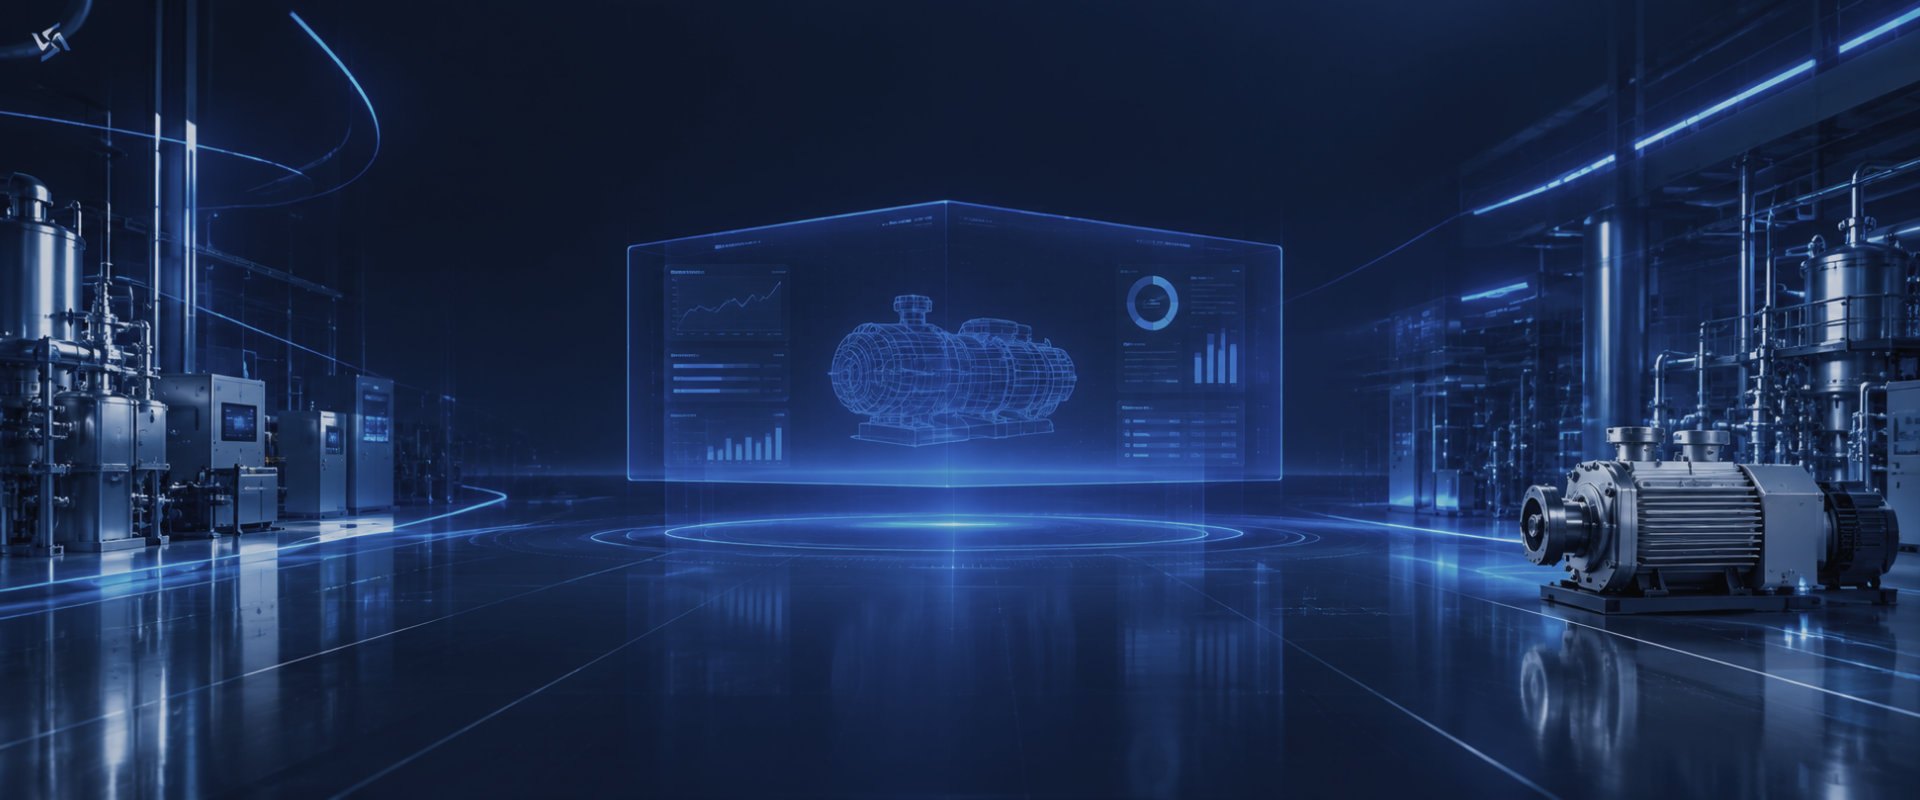
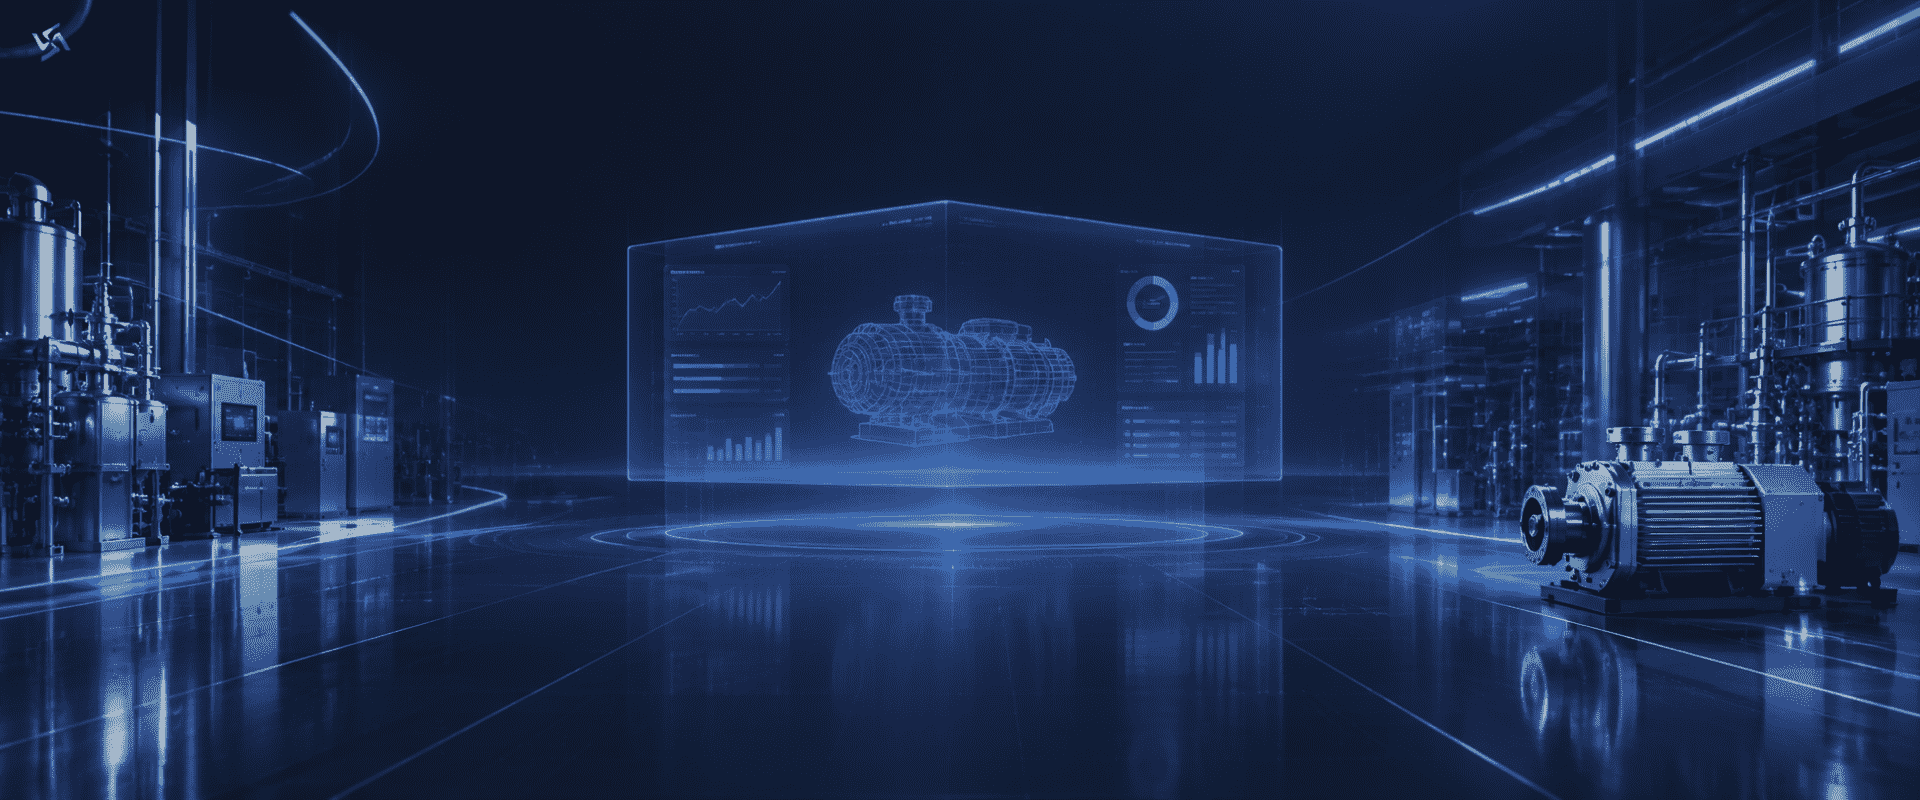
Finalize Smart Eye migration and production website fixes

diff --git a/src/app/[lang]/(website)/home/home-page.tsx b/src/app/[lang]/(website)/home/home-page.tsx
@@ -7,6 +7,13 @@ import styles from "./home.module.css";
 
 type Props = { params: Promise<{ lang: string }> };
 
+const softwarePaths = {
+  vacuum: "/products/vacuum-ai",
+  agent: "/products/industrial-agent",
+  brain: "/products/enterprise-brain",
+  smartEye: "/smart-eye",
+} as const;
+
 const chainStepIcons = [
   "/image/home-chain-needs.png", // 527:943
   "/image/home-chain-ai-assistant.png", // 527:946
@@ -43,7 +50,7 @@ const copy = {
     offeringIntro: "TARGON 面向真空与半导体产业，提供 AI 软件产品与工业硬件产品，将人工智能能力与真实设备及产业场景连接起来。",
     softwareTitle: "AI 软件产品",
     software: [
-      { name: "Vacuum AI", description: "真空产业智能化平台，模型计算、元件交易、二手流通、维修保养、认证服务。", type: "产业平台", action: "查看案例", image: "vacuum" },
+      { name: "Vacuum AI", description: "真空产业智能化平台，模型计算、元件交易、二手流通、维修保养、认证服务。", type: "产业平台", action: "了解产品", image: "vacuum" },
       { name: "Local Industrial Agent", description: "让每一台设备拥有自己的 AI Agent——设备理解、故障诊断、预测维护、工艺优化、多设备协作。", type: "工业AI", action: "了解产品", image: "agent" },
       { name: "Enterprise Brain", description: "让企业拥有真正能执行任务的 AI 中枢——文件理解、数据核对、知识管理、任务执行、流程协作。", type: "企业AI", action: "了解产品", image: "brain" },
       { name: "灵眸智售", description: "专为B2B销售打造的 AI 销售赋能平台\n市场情报 → 目标客户 → 采购决策链 → 项目跟进 → 报价 → 成交。", type: "销售AI", action: "进入灵眸智售", image: "smartEye" },
@@ -62,7 +69,7 @@ const copy = {
     scenes: [
       { name: "Vacuum AI", headline: "AI，正在真实场景中发生", description: "Vacuum AI——从真空计算到产业服务的平台实践", image: "/image/home-scene-vacuum-ai.png", imageAlt: "Vacuum AI 平台界面" },
       { name: "Local Industrial Agent", headline: "AI，正在工业现场发生", description: "Local Industrial Agent——面向真空与半导体设备的本地化工业 AI Agent", image: "/image/home-scene-industrial-agent.png", imageAlt: "Local Industrial Agent 平台界面" },
-      { name: "Enterprise Brain", headline: "AI，正在企业业务中发生", description: "Enterprise Brain——从企业知识到业务执行的 AI 智能中枢", image: "/image/home-scene-enterprise-brain.png", imageAlt: "Enterprise Brain 知识库界面" },
+      { name: "Enterprise Brain", headline: "AI，正在企业业务中发生", description: "Enterprise Brain——从企业知识到业务执行的 AI 智能中枢", image: "/image/home-scene-enterprise-brain.png", imageAlt: "Enterprise Brain 知识库界面", imagePosition: "center top" },
       { name: "灵眸智售", headline: "AI，正在销售现场发生", description: "灵眸智售——从市场洞察到客户成交的 AI 销售智能平台", image: "/image/home-scene-smart-eye.png", imageAlt: "灵眸智售报价单界面" },
     ],
     reasonsTitle: "为什么选择Targon？",
@@ -104,7 +111,7 @@ const copy = {
     offeringIntro: "TARGON provides AI software and industrial hardware for the vacuum and semiconductor industries, connecting AI capabilities with real equipment and industrial applications.",
     softwareTitle: "AI Software Products",
     software: [
-      { name: "Vacuum AI", description: "An intelligent platform for the vacuum industry: model calculations, component trading, secondhand equipment, maintenance, and certification services.", type: "Industry Platform", action: "View Cases", image: "vacuum" },
+      { name: "Vacuum AI", description: "An intelligent platform for the vacuum industry: model calculations, component trading, secondhand equipment, maintenance, and certification services.", type: "Industry Platform", action: "Explore Product", image: "vacuum" },
       { name: "Local Industrial Agent", description: "An AI Agent for equipment understanding, fault diagnosis, predictive maintenance, process optimization, and coordination across devices.", type: "Industrial AI", action: "Explore Product", image: "agent" },
       { name: "Enterprise Brain", description: "An AI hub for enterprise tasks: document understanding, data checking, knowledge management, task execution, and workflow collaboration.", type: "Enterprise AI", action: "Explore Product", image: "brain" },
       { name: "Smart Eye", description: "An AI sales platform for B2B teams, from market intelligence to customer deals.", type: "Sales AI", action: "Explore Smart Eye", image: "smartEye" },
@@ -123,7 +130,7 @@ const copy = {
     scenes: [
       { name: "Vacuum AI", headline: "AI at Work in Real Applications", description: "Vacuum AI brings real calculations and industry services together on one platform.", image: "/image/home-scene-vacuum-ai.png", imageAlt: "Vacuum AI platform interface" },
       { name: "Local Industrial Agent", headline: "AI at Work on the Factory Floor", description: "A local Industrial AI Agent for vacuum and semiconductor equipment.", image: "/image/home-scene-industrial-agent.png", imageAlt: "Local Industrial Agent platform interface" },
-      { name: "Enterprise Brain", headline: "AI at Work in Enterprise Operations", description: "An AI hub from enterprise knowledge to business execution.", image: "/image/home-scene-enterprise-brain.png", imageAlt: "Enterprise Brain knowledge base interface" },
+      { name: "Enterprise Brain", headline: "AI at Work in Enterprise Operations", description: "An AI hub from enterprise knowledge to business execution.", image: "/image/home-scene-enterprise-brain.png", imageAlt: "Enterprise Brain knowledge base interface", imagePosition: "center top" },
       { name: "Smart Eye", headline: "AI at Work in Sales", description: "An AI sales platform from market insight to customer deals.", image: "/image/home-scene-smart-eye.png", imageAlt: "Smart Eye quotation interface" },
     ],
     reasonsTitle: "Why Targon?",
@@ -154,7 +161,17 @@ const copy = {
 export async function generateMetadata({ params }: Props): Promise<Metadata> {
   const { lang } = await params;
   if (!isLocale(lang)) notFound();
-  return { title: copy[lang].title, description: copy[lang].description, robots: { index: false, follow: false } };
+  return {
+    title: copy[lang].title,
+    description: copy[lang].description,
+    alternates: {
+      canonical: `/${lang}`,
+      languages: {
+        "zh-CN": "/zh",
+        en: "/en",
+      },
+    },
+  };
 }
 
 export default async function HomePage({ params }: Props) {
@@ -183,7 +200,7 @@ export default async function HomePage({ params }: Props) {
         <div className={styles.softwareGrid}>
           {content.software.map((product) => <article className={styles.softwareCard} data-product={product.image} key={product.name}>
             <div className={`site-bg-box ${styles.softwareImage}`} role="img" aria-label={product.name} />
-            <div className={styles.softwareCopy}><h4>{product.name}</h4><p>{product.description}</p><div className={styles.cardActions}><span className={styles.pill}>{product.type}</span>{product.image === "smartEye" ? <Link href={`/${lang}/smart-eye`}>{product.action}<span aria-hidden="true">→</span></Link> : <button type="button">{product.action}<span aria-hidden="true">→</span></button>}</div></div>
+            <div className={styles.softwareCopy}><h4>{product.name}</h4><p>{product.description}</p><div className={styles.cardActions}><span className={styles.pill}>{product.type}</span><Link href={`/${lang}${softwarePaths[product.image]}`} aria-label={`${product.action} · ${product.name}`}>{product.action}<span aria-hidden="true">→</span></Link></div></div>
           </article>)}
         </div>
       </section>
@@ -191,14 +208,14 @@ export default async function HomePage({ params }: Props) {
       <section className={`site-container ${styles.hardware}`} aria-labelledby="hardware-heading">
         <h2 id="hardware-heading" className={styles.sectionTitle} data-aos="fade">{content.hardwareTitle}</h2>
         <div className={styles.hardwarePanel}>
-          <div className={styles.hardwareCopy}><h3 data-aos="fade">{content.hardwareHeadline}</h3><p data-aos="fade">{content.hardwareIntro}</p><button className={styles.textButton} type="button">{content.hardwareAction}<span aria-hidden="true">→</span></button><div className={styles.tags}>{content.hardwareTags.map((tag) => <span key={tag}>{tag}</span>)}</div></div>
-          <div className={`site-bg-box ${styles.hardwareImage} ${styles.collectorImage}`} role="img" aria-label={content.collector}><span>{content.collector}</span></div>
-          <div className={`site-bg-box ${styles.hardwareImage} ${styles.outgassingImage}`} role="img" aria-label={content.outgassing}><span>{content.outgassing}</span></div>
+          <div className={styles.hardwareCopy}><h3 data-aos="fade">{content.hardwareHeadline}</h3><p data-aos="fade">{content.hardwareIntro}</p><Link className={styles.textButton} href={`/${lang}/products#hardware-heading`}>{content.hardwareAction}<span aria-hidden="true">→</span></Link><div className={styles.tags}>{content.hardwareTags.map((tag) => <span key={tag}>{tag}</span>)}</div></div>
+          <Link href={`/${lang}/products/edge-collector`} className={`site-bg-box ${styles.hardwareImage} ${styles.collectorImage}`} aria-label={content.collector}><span>{content.collector}</span></Link>
+          <Link href={`/${lang}/products/outgassing-platform`} className={`site-bg-box ${styles.hardwareImage} ${styles.outgassingImage}`} aria-label={content.outgassing}><span>{content.outgassing}</span></Link>
         </div>
       </section>
 
       <section className={`site-container ${styles.chain}`} aria-labelledby="chain-heading">
-        <div className={styles.chainCopy}><h2 id="chain-heading" data-aos="fade">{content.chainTitle}</h2><p data-aos="fade">{content.chainIntro}</p><button className={styles.textButton} type="button">{content.chainAction}<img src="/image/home-chain-link-arrow.png" alt="" width="40" height="40" /></button></div>
+        <div className={styles.chainCopy}><h2 id="chain-heading" data-aos="fade">{content.chainTitle}</h2><p data-aos="fade">{content.chainIntro}</p><Link className={styles.textButton} href={`/${lang}/products/vacuum-ai`}>{content.chainAction}<img src="/image/home-chain-link-arrow.png" alt="" width="40" height="40" /></Link></div>
         <ol className={styles.chainSteps}>
           {content.chainSteps.map((step, index) => (
             <li key={step}>

diff --git a/src/components/site-header/site-header.tsx b/src/components/site-header/site-header.tsx
@@ -3,18 +3,14 @@ import { LocaleSwitch } from "@/components/locale-switch";
 import type { Locale } from "@/lib/locales";
 import styles from "./site-header.module.css";
 
-export function SiteHeader({ lang, showCases = false, activeHref, logoSrc = "/image/logo.svg", versionLabel }: {
+export function SiteHeader({ lang, activeHref }: {
   lang: Locale;
-  showCases?: boolean;
   activeHref?: string;
-  logoSrc?: string;
-  versionLabel?: string;
 }) {
   const isZh = lang === "zh";
   const links = [
     { href: `/${lang}`, label: isZh ? "首页" : "Home" },
     { href: `/${lang}/products`, label: isZh ? "产品" : "Products" },
-    ...(showCases ? [{ href: `/${lang}/cases`, label: isZh ? "案例" : "Cases" }] : []),
     { href: `/${lang}/smart-eye`, label: isZh ? "灵眸智售" : "Smart Eye" },
     { href: `/${lang}/contact`, label: isZh ? "联系我们" : "Contact" },
   ];
@@ -23,7 +19,7 @@ export function SiteHeader({ lang, showCases = false, activeHref, logoSrc = "/im
     <header className={styles.header}>
       <div className={`site-container ${styles.inner}`}>
         <Link className={styles.brand} href={`/${lang}`} aria-label={isZh ? "探氩科技首页" : "Targon home"}>
-          <img className={styles.logo} src={logoSrc} alt="" width="40" height="40" />
+          <img className={styles.logo} src="/image/logo.svg" alt="" width="40" height="40" />
           <span>TARGON</span>
         </Link>
         <nav className={styles.nav} aria-label={isZh ? "主导航" : "Main navigation"}>
@@ -34,11 +30,7 @@ export function SiteHeader({ lang, showCases = false, activeHref, logoSrc = "/im
           ))}
         </nav>
         <div className={styles.actions}>
-          {versionLabel && <span className={styles.locale}>{versionLabel}</span>}
           <LocaleSwitch lang={lang} className={styles.locale} />
-          <Link className={`site-button site-button--primary ${styles.demo}`} href={`/${lang}/contact`}>
-            {isZh ? "预约演示" : "Book a Demo"}
-          </Link>
         </div>
       </div>
     </header>

diff --git a/src/components/site-header/site-header.module.css b/src/components/site-header/site-header.module.css
@@ -1,15 +1,14 @@
-.header { background: var(--site-color-navy); color: var(--site-color-white); }
+.header { background: var(--site-color-navy); color: var(--site-color-white); font-family: var(--site-font-text); line-height: 1.5; -webkit-font-smoothing: antialiased; -moz-osx-font-smoothing: grayscale; }
 .inner { display: grid; grid-template-columns: 1fr auto 1fr; align-items: center; gap: 32px; min-height: 116px; }
 .brand { display: inline-flex; align-items: center; gap: 8px; color: var(--site-color-white); font-family: var(--site-font-latin); font-size: 24px; letter-spacing: -.16px; white-space: nowrap; }
 .logo { display: block; width: 40px; height: 40px; flex: none; }
 .nav { display: flex; align-items: center; gap: clamp(24px, 4.5vw, 88px); white-space: nowrap; }
 .nav a { display: inline-flex; align-items: center; gap: 3px; color: var(--site-color-nav); font-size: 18px; line-height: 32px; }
 .nav a:hover, .locale:hover { color: var(--site-color-white); }
-.nav a[aria-current="page"] { color: var(--site-color-white); font-weight: 500; }
+.nav a[aria-current="page"] { color: var(--site-color-white); }
 .nav a span { color: var(--site-color-muted); font-weight: 700; }
 .actions { display: flex; align-items: center; justify-content: flex-end; gap: 24px; }
 .locale { color: var(--site-color-nav); font-family: var(--site-font-latin); font-size: 14px; white-space: nowrap; }
-.demo { min-width: 158px; }
 
 @media (max-width: 1200px) {
   .inner { grid-template-columns: 1fr auto; row-gap: 0; padding-block: 16px; }
@@ -21,7 +20,6 @@
   .brand { font-size: 20px; }
   .logo { width: 32px; height: 32px; }
   .actions { gap: 12px; }
-  .demo { min-width: 0; min-height: 40px; padding: 8px 14px; font-size: 13px; }
   .nav { gap: 24px; }
   .nav a { font-size: 15px; }
 }
@@ -31,6 +29,5 @@
   .brand { gap: 5px; font-size: 16px; }
   .logo { width: 24px; height: 24px; }
   .actions { gap: 8px; }
-  .actions .demo { min-height: 40px; padding: 8px 10px; font-size: 12px; }
   .nav { min-width: 0; gap: 18px; }
 }

diff --git a/src/app/[lang]/(website)/home/home-carousel.tsx b/src/app/[lang]/(website)/home/home-carousel.tsx
@@ -4,7 +4,7 @@ import { useState } from "react";
 import type { Locale } from "@/lib/locales";
 import styles from "./home.module.css";
 
-type Slide = { name: string; headline: string; description: string; image: string; imageAlt: string };
+type Slide = { name: string; headline: string; description: string; image: string; imageAlt: string; imagePosition?: string };
 
 export function HomeCarousel({ slides, lang }: { slides: readonly Slide[]; lang: Locale }) {
   const [active, setActive] = useState(0);
@@ -19,7 +19,7 @@ export function HomeCarousel({ slides, lang }: { slides: readonly Slide[]; lang:
           <div className={styles.sceneTrack} style={{ transform: `translateX(-${active * 100}%)` }}>
             {slides.map((slide, index) => <article className={styles.sceneSlide} aria-hidden={active !== index} key={slide.name}>
               <div className={styles.sceneCopy}><h2>{slide.headline}</h2><p>{slide.description}</p></div>
-              <div className={`site-bg-box ${styles.sceneImage}`} style={{ backgroundImage: `url("${slide.image}")` }} role="img" aria-label={slide.imageAlt} />
+              <div className={styles.sceneImage} style={{ backgroundImage: `url("${slide.image}")`, backgroundPosition: slide.imagePosition }} role="img" aria-label={slide.imageAlt} />
             </article>)}
           </div>
         </div>

diff --git a/src/app/[lang]/(workspace)/smart-eye/app/layout.tsx b/src/app/[lang]/(workspace)/smart-eye/app/layout.tsx
@@ -1,18 +1,20 @@
 import { Suspense } from "react";
+import { notFound } from "next/navigation";
 import { WorkspaceShell } from "@/app/[lang]/(workspace)/smart-eye/_components/layout/workspace-shell";
 import { SiteHeader } from "@/components/site-header/site-header";
-import type { Locale } from "@/lib/locales";
+import { isLocale } from "@/lib/locales";
 import styles from "../_components/layout/workspace.module.css";
 
 export default async function DashboardLayout({ children, params }: {
   children: React.ReactNode;
-  params: Promise<{ lang: Locale }>;
+  params: Promise<{ lang: string }>;
 }) {
   const { lang } = await params;
+  if (!isLocale(lang)) notFound();
   return (
     <>
       <div className={styles.header}>
-        <SiteHeader lang={lang} showCases activeHref={`/${lang}/smart-eye`} logoSrc="/img/smart-eye/header-logo.svg" versionLabel="V1.1.0" />
+        <SiteHeader lang={lang} activeHref={`/${lang}/smart-eye`} />
       </div>
       <WorkspaceShell>
         <Suspense fallback={<div className="animate-pulse h-96 bg-gray-100 rounded-lg" />}>

diff --git a/src/app/[lang]/(website)/home/home.module.css b/src/app/[lang]/(website)/home/home.module.css
@@ -205,7 +205,7 @@
 .sceneCopy { padding-top: 230px; }
 .sceneCopy h2 { margin-bottom: 36px; font-size: 48px; font-weight: 500; line-height: 68px; }
 .sceneCopy p { max-width: 518px; margin-bottom: 0; color: var(--site-color-body); font-size: 20px; line-height: 36px; }
-.sceneImage { min-height: 600px; border-radius: 28px; background-color: #eef5fb; box-shadow: 4px -4px 8px rgb(20 40 74 / 12%); }
+.sceneImage { min-height: 600px; border-radius: 28px; background-color: #eef5fb; background-position: center; background-repeat: no-repeat; background-size: cover; box-shadow: 4px -4px 8px rgb(20 40 74 / 12%); }
 .sceneArrows { display: flex; justify-content: flex-end; gap: 14px; margin-top: 25px; }
 .sceneArrows button { width: 46px; height: 46px; border: 1px solid #d3dfea; border-radius: 50%; color: #718ba9; font-size: 22px; cursor: pointer; }
 

diff --git a/src/components/site-footer/site-footer.tsx b/src/components/site-footer/site-footer.tsx
@@ -36,9 +36,9 @@ export function SiteFooter({ lang }: { lang: Locale }) {
           </div>
           <div className={styles.links}>
             <h2>{isZh ? "产品" : "Products"}</h2>
-            <Link href={`/${lang}/products`}>Vacuum AI</Link>
-            <Link href={`/${lang}/products`}>Local Industrial Agent</Link>
-            <Link href={`/${lang}/products`}>Enterprise Brain</Link>
+            <Link href={`/${lang}/products/vacuum-ai`}>Vacuum AI</Link>
+            <Link href={`/${lang}/products/industrial-agent`}>Local Industrial Agent</Link>
+            <Link href={`/${lang}/products/enterprise-brain`}>Enterprise Brain</Link>
             <Link href={`/${lang}/smart-eye`}>{isZh ? "灵眸智售" : "Smart Eye"}</Link>
           </div>
           <div className={styles.links}>

diff --git a/src/app/[lang]/(workspace)/smart-eye/_components/layout/workspace.module.css b/src/app/[lang]/(workspace)/smart-eye/_components/layout/workspace.module.css
@@ -1,6 +1,4 @@
 .header { position: sticky; top: 0; z-index: 60; }
-.header :global(.site-container) { transform: translateY(10px); }
-.header :global(.site-container) > a { line-height: 32px; }
 .shell { display: grid; grid-template-columns: 244px minmax(0, 1fr); min-height: calc(100dvh - 116px); background: #fff; color: #14284a; }
 .content { min-width: 0; }
 .sidebar { position: sticky; top: 116px; align-self: start; display: flex; flex-direction: column; height: calc(100dvh - 116px); overflow-y: auto; padding: 40px 24px 48px 85px; background: #fff; }
@@ -27,7 +25,6 @@
 
 @media (max-width: 1200px) {
   .header { position: relative; }
-  .header :global(.site-container) { transform: none; }
   .sidebar { top: 0; height: 100dvh; padding-left: 32px; }
 }
 @media (max-width: 767px) {

diff --git a/src/app/[lang]/(website)/products/page.tsx b/src/app/[lang]/(website)/products/page.tsx
@@ -59,7 +59,17 @@ const copy = {
 export async function generateMetadata({ params }: Props): Promise<Metadata> {
   const { lang } = await params;
   if (!isLocale(lang)) notFound();
-  return { title: copy[lang].title, description: copy[lang].description, robots: { index: false, follow: false } };
+  return {
+    title: copy[lang].title,
+    description: copy[lang].description,
+    alternates: {
+      canonical: `/${lang}/products`,
+      languages: {
+        "zh-CN": "/zh/products",
+        en: "/en/products",
+      },
+    },
+  };
 }
 
 export default async function ProductsPage({ params }: Props) {

diff --git a/src/app/[lang]/(website)/contact/page.tsx b/src/app/[lang]/(website)/contact/page.tsx
@@ -122,7 +122,17 @@ const copy = {
 export async function generateMetadata({ params }: Props): Promise<Metadata> {
   const { lang } = await params;
   if (!isLocale(lang)) notFound();
-  return { title: copy[lang].title, description: copy[lang].description, robots: { index: false, follow: false } };
+  return {
+    title: copy[lang].title,
+    description: copy[lang].description,
+    alternates: {
+      canonical: `/${lang}/contact`,
+      languages: {
+        "zh-CN": "/zh/contact",
+        en: "/en/contact",
+      },
+    },
+  };
 }
 
 export default async function ContactPage({ params }: Props) {

diff --git a/src/app/smart-eye/route.ts b/src/app/smart-eye/route.ts
@@ -4,9 +4,11 @@ import { getDefaultLocale } from "@/lib/smart-eye-paths";
 export const dynamic = "force-dynamic";
 
 export function GET(request: NextRequest) {
-  const url = request.nextUrl.clone();
-  url.pathname = `/${getDefaultLocale()}${url.pathname}`;
-  const response = NextResponse.redirect(url, 302);
+  const { pathname, search } = request.nextUrl;
+  const response = new NextResponse(null, {
+    status: 302,
+    headers: { Location: `/${getDefaultLocale()}${pathname}${search}` },
+  });
   response.headers.set("Cache-Control", "private, no-store");
   return response;
 }

diff --git a/src/app/route.ts b/src/app/route.ts
@@ -1,10 +1,13 @@
-import { NextRequest, NextResponse } from "next/server";
+import { NextResponse } from "next/server";
 
 export const dynamic = "force-dynamic";
 
-export function GET(request: NextRequest) {
+export function GET() {
   const locale = process.env.SITE_DEFAULT_LOCALE === "en" ? "en" : "zh";
-  const response = NextResponse.redirect(new URL(`/${locale}`, request.url), 302);
+  const response = new NextResponse(null, {
+    status: 302,
+    headers: { Location: `/${locale}` },
+  });
   response.headers.set("Cache-Control", "private, no-store");
   return response;
 }
